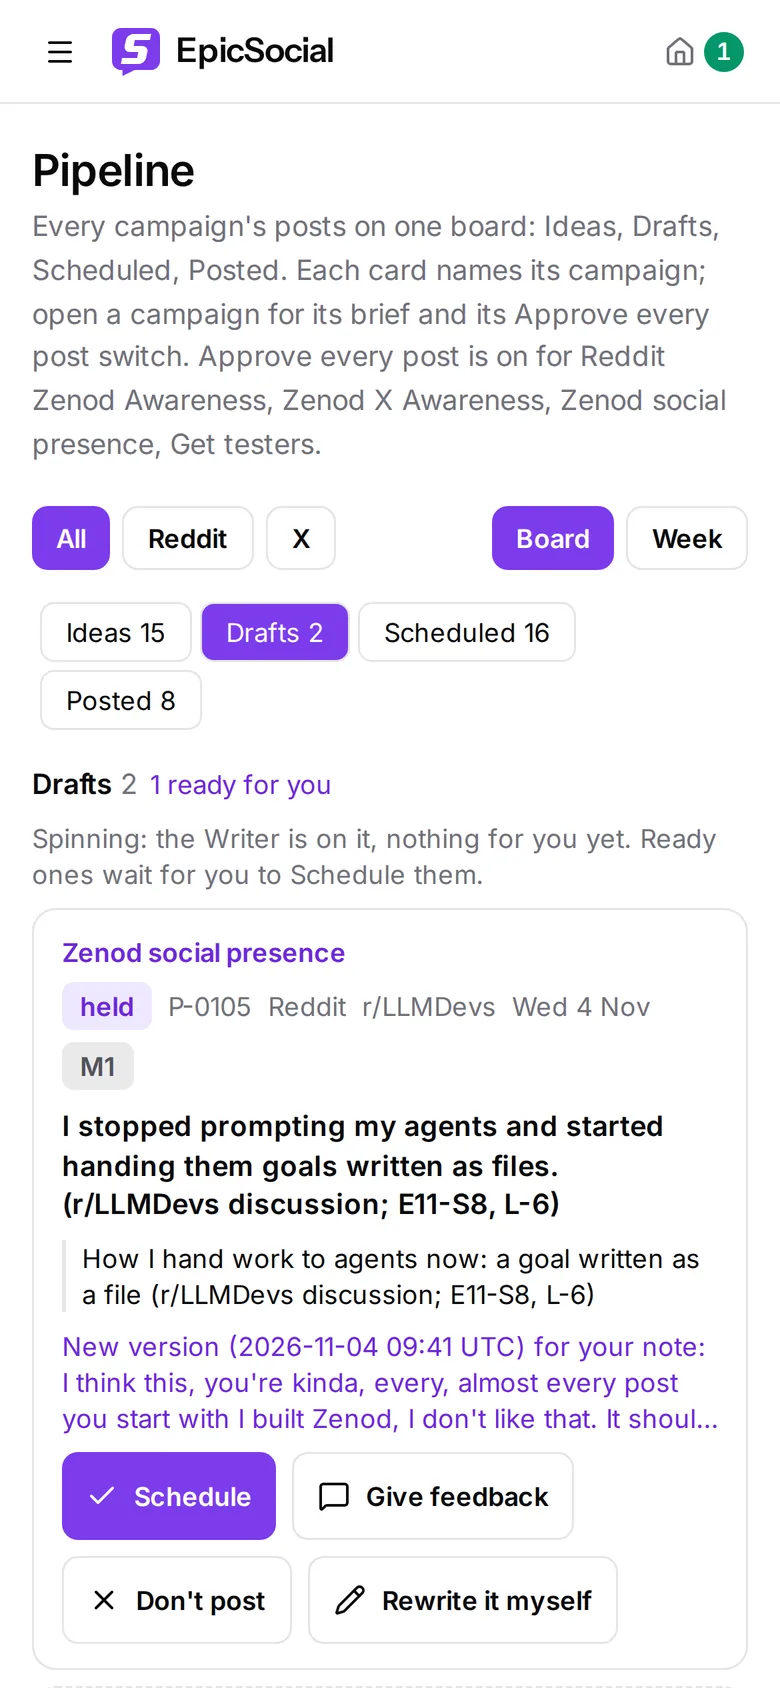
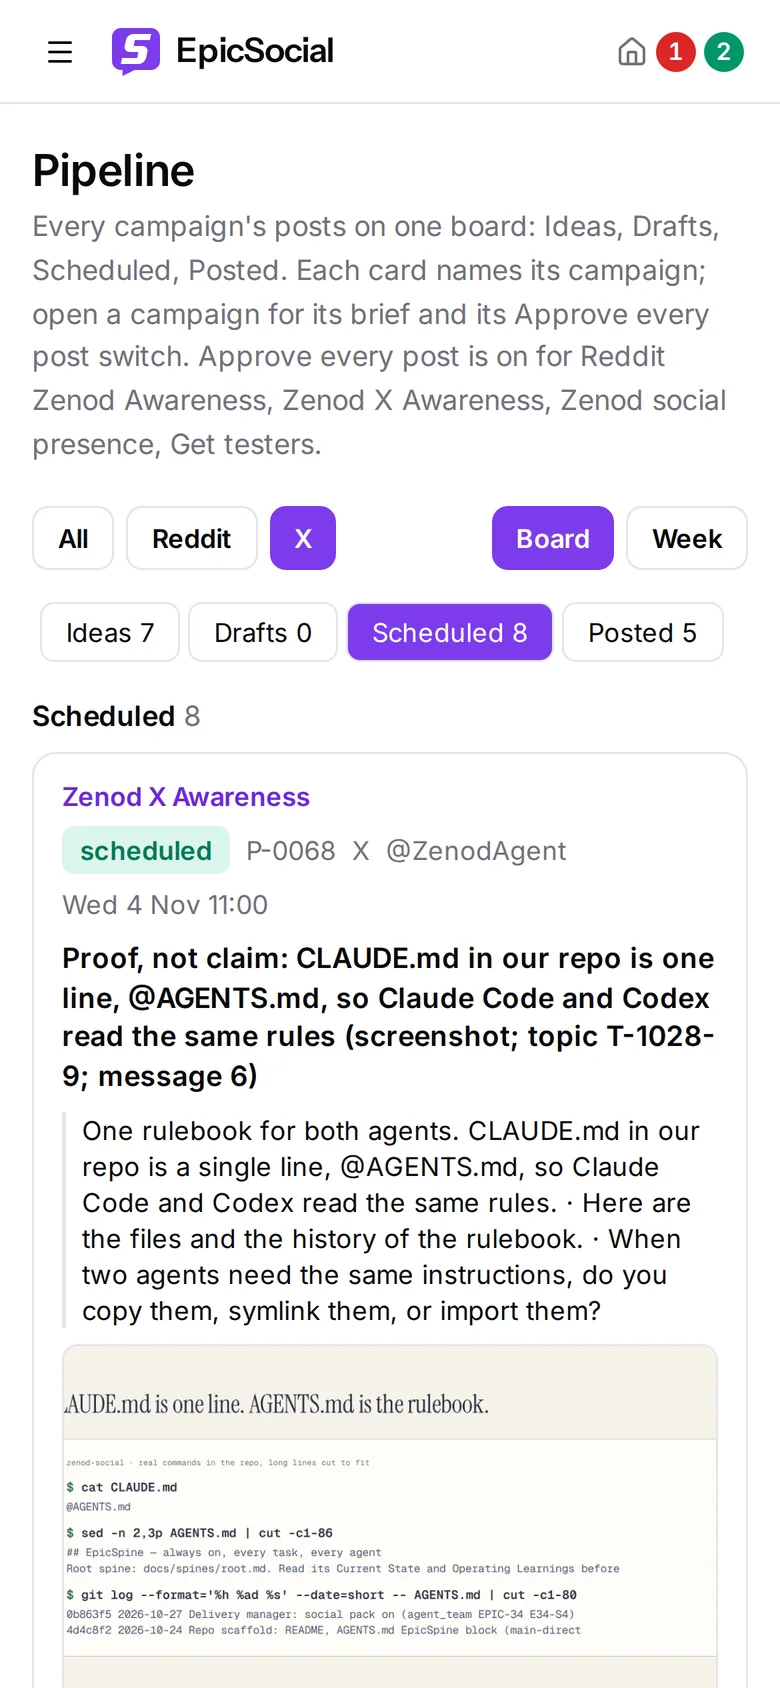
E43-S6, E43-S7 (agent_team EPIC-43): fresh-eyes review fixes, plain-word pictures, safer real screens
Landing: the pictures say it in plain words (what a new chat reads first, a
rule saved from one correction, your project folder) instead of commands and
rule codes. EpicTeam: the hero is a finished task close up, the inbox section
shows the whole list; personas, skills and sign-ins are cropped to rows and
columns without internal probe names or prompts; the seat pool is the console
machine's card. EpicSocial: the pipeline is shown on its X filter so a private
owner's note stays out; two shots under it, the skills one moved to EpicTeam.

Run: run_cc35c4d6-7725-4917-ada9-40dab139524b

diff --git a/team/index.html b/team/index.html
@@ -46,8 +46,8 @@
         </div>
       </div>
       <figure class="show shot">
-        <div class="frame"><img src="shots/inbox.webp" width="1600" height="1219" fetchpriority="high" alt="EpicTeam's home on 4 November 2026: one list with Blocked, waiting on you, Snoozed, Decided for you, Coming up, Answered and Done, waiting for your review, which holds three finished tasks."></div>
-        <figcaption>The real home screen, 4 November 2026. Private asks are folded.</figcaption>
+        <div class="frame"><img src="shots/review.webp" width="1600" height="562" fetchpriority="high" alt="A finished task in EpicTeam's inbox on 4 November 2026: what you are marking as complete, the goal of the task and what was delivered, with a try-this step."></div>
+        <figcaption>A finished task in the real inbox, 4 November 2026.</figcaption>
       </figure>
     </div>
   </section>
@@ -60,8 +60,8 @@
       </div>
       <div class="show pair">
         <figure class="shot">
-          <div class="frame"><img src="shots/review.webp" width="1600" height="1352" loading="lazy" alt="A finished task waiting for review: what was delivered, a try-this step, the evidence with a preview link, and where it sits in its goal."></div>
-          <figcaption>A finished task, ready for your look.</figcaption>
+          <div class="frame"><img src="shots/inbox.webp" width="1600" height="1219" loading="lazy" alt="EpicTeam's home: one list with Blocked, waiting on you, Snoozed, Decided for you, Coming up, Answered and Done, waiting for your review, which holds three finished tasks."></div>
+          <figcaption>One list for everything. Private asks are folded here.</figcaption>
         </figure>
         <figure class="shot">
           <div class="frame"><img src="shots/inbox-phone.webp" width="780" height="1688" loading="lazy" alt="The same inbox on a phone."></div>
@@ -78,8 +78,8 @@
         <p class="lead">Each persona has a role, a model and the goals it works on. It wakes on a schedule and says what it did.</p>
       </div>
       <figure class="show shot">
-        <div class="frame"><picture><source media="(max-width: 560px)" srcset="shots/personas-phone.webp" width="780" height="1688"><img src="shots/personas.webp" width="1600" height="945" loading="lazy" alt="Three personas: Epic Spine health keeps the goal tree honest, the Unblocker answers open asks when the answer is clear, the Watcher keeps one scoreboard honest. Each shows its model, its host, its runs and what it did lately."></picture></div>
-        <figcaption>Three of the team’s personas, with what each did lately.</figcaption>
+        <div class="frame"><picture><source media="(max-width: 560px)" srcset="shots/personas-phone.webp" width="780" height="1688"><img src="shots/personas.webp" width="1600" height="625" loading="lazy" alt="Two personas: the Watcher keeps one scoreboard honest and never fixes, the Diagnostician turns a problem into a diagnosis and never changes a running system. Each shows its model, its runs and what it did lately."></picture></div>
+        <figcaption>Two of the team’s personas, each with the one thing it does.</figcaption>
       </figure>
     </div>
   </section>
@@ -91,7 +91,7 @@
         <p class="lead">Add a skill once from GitHub, pinned to a version. Then pick which personas use it.</p>
       </div>
       <figure class="show shot">
-        <div class="frame"><picture><source media="(max-width: 560px)" srcset="shots/skills-phone.webp" width="780" height="1688"><img src="shots/skills.webp" width="1600" height="1250" loading="lazy" alt="Team skills: copy-editing, copywriting, design-taste-frontend, diagram-design, hallmark, house-diagram-style and humanizer, each with when to use it, its GitHub source pinned to a commit, and the personas that use it."></picture></div>
+        <div class="frame"><picture><source media="(max-width: 560px)" srcset="shots/skills-phone.webp" width="780" height="1688"><img src="shots/skills.webp" width="1600" height="767" loading="lazy" alt="Team skills: copy-editing, copywriting, design-taste-frontend and diagram-design, each with when to use it, its GitHub source pinned to a commit, and the personas that use it."></picture></div>
         <figcaption>The skills page, each skill pinned to a commit.</figcaption>
       </figure>
     </div>
@@ -103,9 +103,9 @@
         <h2 id="h-signins">Sign in once. Every agent can use it.</h2>
         <p class="lead">Your browser logins and connected tools are shared with the team. The values stay encrypted and are never shown.</p>
       </div>
-      <div class="show pair">
+      <div class="show pair even">
         <figure class="shot">
-          <div class="frame"><picture><source media="(max-width: 560px)" srcset="shots/signins-phone.webp" width="780" height="1688"><img src="shots/signins.webp" width="1600" height="975" loading="lazy" alt="Browser sign-ins shared with every agent: Airbnb, Reddit, Twitter and X, each with when it was synced, when the login expires and when an agent last used it."></picture></div>
+          <div class="frame"><picture><source media="(max-width: 560px)" srcset="shots/signins-phone.webp" width="780" height="1688"><img src="shots/signins.webp" width="1104" height="854" loading="lazy" alt="Browser sign-ins shared with every agent: Airbnb, Reddit, Twitter and X, each from Chrome on the owner’s laptop, with when it was last synced."></picture></div>
           <figcaption>Browser sign-ins, synced from your laptop.</figcaption>
         </figure>
         <figure class="shot">
@@ -119,12 +119,12 @@
   <section class="band alt" id="seats" aria-labelledby="h-seats">
     <div class="container stack">
       <div class="say">
-        <h2 id="h-seats">Several subscriptions, one team.</h2>
-        <p class="lead">Bring more than one AI subscription. The team shares the work across them and across machines.</p>
+        <h2 id="h-seats">Several subscriptions, one pool.</h2>
+        <p class="lead">Each AI subscription is a seat. The team draws on the whole pool, so one usage limit never stops the work.</p>
       </div>
-      <figure class="show shot">
-        <div class="frame"><picture><source media="(max-width: 560px)" srcset="shots/hosts-phone.webp" width="780" height="1688"><img src="shots/hosts.webp" width="1600" height="750" loading="lazy" alt="Hosts: vps1 runs the console with 4 of 5 seats in use from the seat pool; vps3 is the on-demand agent machine with 4 agents running."></picture></div>
-        <figcaption>Two machines and a pool of five seats.</figcaption>
+      <figure class="show shot shot--narrow">
+        <div class="frame"><img src="shots/hosts.webp" width="992" height="448" loading="lazy" alt="The console’s machine: up, and 4 of the 5 seats in the pool in use."></div>
+        <figcaption>Five seats in the pool, four in use.</figcaption>
       </figure>
     </div>
   </section>
@@ -136,13 +136,14 @@
         <p class="lead">EpicTeam runs on EpicSpine. Every goal, decision and lesson is a file in git, so nothing is locked inside the app.</p>
         <p class="more"><a href="../">What EpicSpine does</a></p>
       </div>
-      <figure class="show well" aria-label="The same review card as a line in the goal's file">
-        <figcaption class="well-head"><span>docs/spines/epic-43-live-sites.md</span><span class="hide-xs">the card’s source, trimmed</span></figcaption>
-<pre><b>| E43-S5 | review |</b> three simple ideas
-  up front, the Book scrolls
-<span class="dim">evidence:</span> preview, 35 slides,
-  desktop and phone shots
-<span class="arg">confirm: yes</span>, open it on your phone</pre>
+      <figure class="show well" aria-label="The finished task above, as it is kept in the goal's file in git">
+        <figcaption class="well-head"><span>the goal’s file in git</span><span class="hide-xs">trimmed</span></figcaption>
+        <dl class="rows">
+          <div><dt>goal</dt><dd>a public page for each product</dd></div>
+          <div><dt>task</dt><dd>simple ideas first on the site</dd></div>
+          <div><dt>status</dt><dd>waiting for your review</dd></div>
+          <div><dt>evidence</dt><dd>the preview, on desktop and phone</dd></div>
+        </dl>
       </figure>
     </div>
   </section>

diff --git a/index.html b/index.html
@@ -70,15 +70,15 @@
         <h2 id="h-again">No more explaining it again.</h2>
         <p class="lead">A new chat starts from the plan: the goal, where things stand and what comes next.</p>
       </div>
-      <figure class="show well" aria-label="A new agent reads the plan in one command">
-        <figcaption class="well-head"><span>a new agent, first command</span><span class="hide-xs">an example, trimmed</span></figcaption>
-<pre><span class="p">$</span> python3 spines.py <span class="arg">--bind EPIC-4.md</span>
-<b>== EPIC-4: Google sign-in</b>
-Status: active
-Next action: build the login button
-Waiting on: nothing
-## Operating Learnings
-- L-2 | every merge | run e2e first</pre>
+      <figure class="show well" aria-label="What a new chat reads before it says a word">
+        <figcaption class="well-head"><span>what a new chat reads first</span><span class="hide-xs">an example</span></figcaption>
+        <dl class="rows">
+          <div><dt>the goal</dt><dd>Google sign-in, live before Friday</dd></div>
+          <div><dt>done so far</dt><dd>step one built and tested</dd></div>
+          <div><dt>next</dt><dd>the login button</dd></div>
+          <div><dt>your rules</dt><dd>run the tests before merging</dd></div>
+          <div><dt>waiting on you</dt><dd>nothing</dd></div>
+        </dl>
       </figure>
     </div>
   </section>
@@ -92,9 +92,9 @@ Waiting on: nothing
       <figure class="show well" aria-label="A correction becomes a rule, and a different agent follows it days later">
         <figcaption class="well-head"><span>a correction, three days on</span></figcaption>
         <ol class="log">
-          <li><time>Mon</time><span class="who you">you</span><span class="hi">always run the e2e tests before merging</span></li>
-          <li><time>Mon</time><span class="who">saved</span><span class="arg">L-2 | every merge | run e2e first</span></li>
-          <li><time>Thu</time><span class="who">Codex</span><span>ran e2e first, as L-2 says, then merged</span></li>
+          <li><time>Mon</time><span class="who you">you</span><span class="hi">always run the tests before merging</span></li>
+          <li><time>Mon</time><span class="who">saved</span><span class="arg">a rule: tests before every merge</span></li>
+          <li><time>Thu</time><span class="who">Codex</span><span>ran the tests first, then merged</span></li>
         </ol>
       </figure>
     </div>
@@ -163,14 +163,14 @@ Waiting on: nothing
         <h2 id="h-repo">The plan lives in your repo.</h2>
         <p class="lead">Plain files next to your code. No server and no account. Works with Claude Code and Codex.</p>
       </div>
-      <figure class="show well" aria-label="A repository with its plan in docs, and the git log of that plan">
-        <figcaption class="well-head"><span>acme-app</span><span class="hide-xs">git log docs</span></figcaption>
-<pre>src/                      <span class="dim"># your code</span>
-docs/EPIC-4-sign-in.md    <span class="dim"># the plan</span>
+      <figure class="show well" aria-label="A project folder with its plan next to the code, and the plan's history">
+        <figcaption class="well-head"><span>your project</span><span class="hide-xs">an example</span></figcaption>
+<pre>src/            <span class="dim">your code</span>
+docs/sign-in.md <span class="dim">the plan</span>
 
-<span class="arg">a41c9e2</span> EPIC-4 step one verified
-<span class="arg">7be03d1</span> L-2 learned: e2e before merge
-<span class="arg">19f0c55</span> EPIC-4 created from chat</pre>
+<span class="arg">Tue</span> step one verified
+<span class="arg">Mon</span> rule learned: tests before merge
+<span class="arg">Mon</span> plan created from chat</pre>
       </figure>
     </div>
   </section>

diff --git a/social/index.html b/social/index.html
@@ -254,7 +254,7 @@ button, input, textarea { font: inherit; color: inherit; }
 .foot nav { display: flex; gap: var(--space-md); flex-wrap: wrap; }
 .foot p { max-width: 62ch; }
 
-.real-grid { display: grid; grid-template-columns: repeat(3, minmax(0, 1fr)); gap: var(--space-lg); margin-top: var(--space-lg); }
+.real-grid { display: grid; grid-template-columns: repeat(2, minmax(0, 1fr)); gap: var(--space-lg); margin-top: var(--space-lg); }
 .shot { margin: 0; display: grid; gap: var(--space-sm); align-content: start; }
 .shot .frame { border-radius: var(--radius-inner); overflow: hidden; background: var(--color-paper); box-shadow: inset 0 0 0 1px var(--color-rule), var(--shadow-card); }
 .shot .frame img { display: block; width: 100%; height: auto; }
@@ -355,11 +355,11 @@ button, input, textarea { font: inherit; color: inherit; }
 <section class="section section--paper2" id="real"><div class="container">
   <div class="head">
     <h2>The real tool, today.</h2>
-    <p>Our own EpicSocial team on 4 November 2026: every post on one board, waiting for an OK.</p>
+    <p>Our own EpicSocial team on 4 November 2026. Every post sits on one board, from idea to posted.</p>
   </div>
   <figure class="shot shot--big">
-    <div class="frame"><picture><source media="(max-width: 40rem)" srcset="shots/pipeline-phone.webp" width="780" height="1688"><img src="shots/pipeline.webp" width="1600" height="1000" loading="lazy" alt="The EpicSocial pipeline: ideas from the Scout, drafts ready for you with Schedule, Give feedback and Don't post, scheduled posts and posted ones."></picture></div>
-    <figcaption>The pipeline. Drafts wait until you press Schedule.</figcaption>
+    <div class="frame"><picture><source media="(max-width: 40rem)" srcset="shots/pipeline-phone.webp" width="780" height="1688"><img src="shots/pipeline.webp" width="1600" height="1000" loading="lazy" alt="The EpicSocial pipeline for X: ideas from the Scout, scheduled posts with Post now and Pull, and posted ones."></picture></div>
+    <figcaption>The pipeline: ideas, drafts, scheduled and posted.</figcaption>
   </figure>
   <div class="real-grid">
     <figure class="shot">
@@ -369,10 +369,6 @@ button, input, textarea { font: inherit; color: inherit; }
     <figure class="shot">
       <div class="frame"><picture><source media="(max-width: 40rem)" srcset="shots/post-phone.webp" width="780" height="1688"><img src="shots/post.webp" width="1600" height="1000" loading="lazy" alt="One scheduled X post: when it goes out, which campaign it belongs to, who wrote it with which skills, and its text."></picture></div>
       <figcaption>A scheduled post, with who wrote it and when it goes out.</figcaption>
-    </figure>
-    <figure class="shot">
-      <div class="frame"><picture><source media="(max-width: 40rem)" srcset="shots/skills-phone.webp" width="780" height="1688"><img src="shots/skills.webp" width="1600" height="1125" loading="lazy" alt="The skills page: one library the whole team shares, each skill pinned to a version."></picture></div>
-      <figcaption>One skill library for the whole team.</figcaption>
     </figure>
   </div>
   <p class="lane-note">EpicSocial runs on <a href="../team/">EpicTeam</a>: the same inbox, personas and shared sign-ins.</p>

diff --git a/epic.css b/epic.css
@@ -168,6 +168,9 @@ img { display: block; max-width: 100%; height: auto; }
 .shot .frame { border: 1px solid var(--color-rule-2); border-radius: var(--radius); overflow: hidden; background: var(--color-tile); }
 .shot figcaption { font-size: var(--text-xs); color: var(--color-muted); }
 .pair { display: grid; grid-template-columns: minmax(0, 1.9fr) minmax(0, 1fr); gap: var(--space-md); align-items: start; }
+.pair.even { grid-template-columns: repeat(2, minmax(0, 1fr)); }
+.shot--narrow { max-width: 560px; }
+.shot .frame img { width: 100%; }
 
 /* the family */
 .family-grid { display: grid; grid-template-columns: repeat(2, minmax(0, 1fr)); gap: var(--gap-columns); margin-top: var(--space-2xl); }
